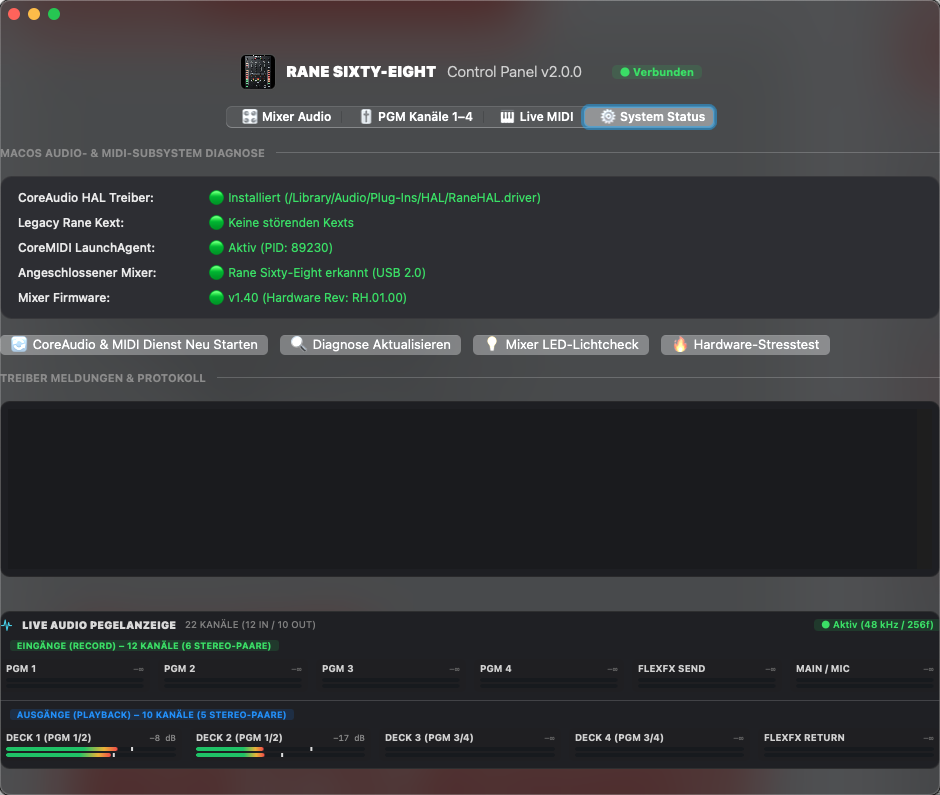
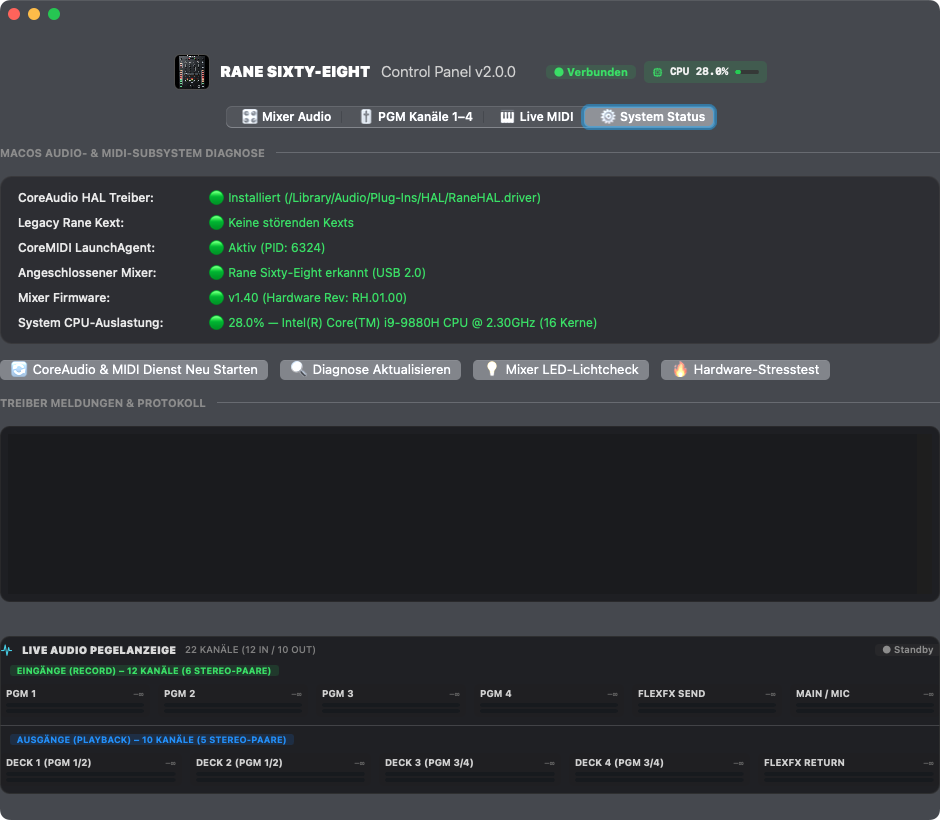
feat(ui): Add real-time CPU load monitor badge, diagnostics row and menu bar widget

diff --git a/src/manager/Views/Components/CpuBadgeView.swift b/src/manager/Views/Components/CpuBadgeView.swift
@@ -1,0 +1,136 @@
+/* SPDX-License-Identifier: MIT */
+/* CpuBadgeView.swift - Compact real-time CPU utilization badge with micro meter bar */
+
+import Cocoa
+
+final class CpuBadgeView: NSView {
+    private let iconView = NSImageView()
+    private let textLabel = NSTextField(labelWithString: "CPU  0.0%")
+    private let barTrack = NSView()
+    private let barFill = NSView()
+    private var fillWidthConstraint: NSLayoutConstraint?
+    private var trackingArea: NSTrackingArea?
+
+    var onClick: (() -> Void)?
+
+    init() {
+        super.init(frame: .zero)
+        wantsLayer = true
+        layer?.cornerRadius = 5
+        layer?.backgroundColor = NSColor.systemGreen.withAlphaComponent(0.15).cgColor
+        translatesAutoresizingMaskIntoConstraints = false
+
+        let stack = NSStackView()
+        stack.orientation = .horizontal
+        stack.alignment = .centerY
+        stack.spacing = 6
+        stack.edgeInsets = NSEdgeInsets(top: 0, left: 8, bottom: 0, right: 8)
+        stack.translatesAutoresizingMaskIntoConstraints = false
+        addSubview(stack)
+
+        if let img = NSImage(systemSymbolName: "cpu", accessibilityDescription: "CPU") {
+            iconView.image = img.withSymbolConfiguration(.init(pointSize: 11, weight: .semibold))
+        }
+        iconView.contentTintColor = NSColor.systemGreen
+        iconView.translatesAutoresizingMaskIntoConstraints = false
+        iconView.widthAnchor.constraint(equalToConstant: 12).isActive = true
+        iconView.heightAnchor.constraint(equalToConstant: 12).isActive = true
+        stack.addArrangedSubview(iconView)
+
+        textLabel.font = NSFont.monospacedSystemFont(ofSize: 10.5, weight: .bold)
+        textLabel.textColor = NSColor(white: 0.95, alpha: 1.0)
+        textLabel.alignment = .left
+        textLabel.isBezeled = false
+        textLabel.drawsBackground = false
+        textLabel.isEditable = false
+        textLabel.isSelectable = false
+        stack.addArrangedSubview(textLabel)
+
+        barTrack.wantsLayer = true
+        barTrack.layer?.cornerRadius = 2
+        barTrack.layer?.backgroundColor = NSColor(white: 0.20, alpha: 0.85).cgColor
+        barTrack.translatesAutoresizingMaskIntoConstraints = false
+        barTrack.widthAnchor.constraint(equalToConstant: 24).isActive = true
+        barTrack.heightAnchor.constraint(equalToConstant: 4).isActive = true
+
+        barFill.wantsLayer = true
+        barFill.layer?.cornerRadius = 2
+        barFill.layer?.backgroundColor = NSColor.systemGreen.cgColor
+        barFill.translatesAutoresizingMaskIntoConstraints = false
+        barTrack.addSubview(barFill)
+
+        NSLayoutConstraint.activate([
+            barFill.leadingAnchor.constraint(equalTo: barTrack.leadingAnchor),
+            barFill.topAnchor.constraint(equalTo: barTrack.topAnchor),
+            barFill.bottomAnchor.constraint(equalTo: barTrack.bottomAnchor),
+        ])
+        fillWidthConstraint = barFill.widthAnchor.constraint(equalToConstant: 2)
+        fillWidthConstraint?.isActive = true
+
+        stack.addArrangedSubview(barTrack)
+
+        NSLayoutConstraint.activate([
+            stack.leadingAnchor.constraint(equalTo: leadingAnchor),
+            stack.trailingAnchor.constraint(equalTo: trailingAnchor),
+            stack.topAnchor.constraint(equalTo: topAnchor),
+            stack.bottomAnchor.constraint(equalTo: bottomAnchor),
+            heightAnchor.constraint(equalToConstant: 22)
+        ])
+
+        updateTooltip()
+    }
+
+    required init?(coder: NSCoder) {
+        fatalError("init(coder:) has not been implemented")
+    }
+
+    override func updateTrackingAreas() {
+        super.updateTrackingAreas()
+        if let existing = trackingArea {
+            removeTrackingArea(existing)
+        }
+        let area = NSTrackingArea(rect: bounds, options: [.mouseEnteredAndExited, .activeAlways, .cursorUpdate], owner: self, userInfo: nil)
+        addTrackingArea(area)
+        self.trackingArea = area
+    }
+
+    override func cursorUpdate(with event: NSEvent) {
+        NSCursor.pointingHand.set()
+    }
+
+    override func mouseUp(with event: NSEvent) {
+        let location = convert(event.locationInWindow, from: nil)
+        if bounds.contains(location) {
+            onClick?()
+        }
+    }
+
+    func updateTooltip() {
+        toolTip = Localization.tr(
+            en: "System CPU Load. Click to switch to System Status tab.",
+            de: "System CPU-Auslastung. Klicken, um zum System Status Tab zu wechseln."
+        )
+    }
+
+    func update(percent: Double) {
+        let clamped = min(max(percent, 0.0), 100.0)
+        textLabel.stringValue = String(format: "CPU %4.1f%%", clamped)
+
+        let color: NSColor
+        if clamped < 50.0 {
+            color = NSColor.systemGreen
+        } else if clamped < 80.0 {
+            color = NSColor.systemOrange
+        } else {
+            color = NSColor.systemRed
+        }
+
+        iconView.contentTintColor = color
+        barFill.layer?.backgroundColor = color.cgColor
+        layer?.backgroundColor = color.withAlphaComponent(0.15).cgColor
+
+        let trackWidth: CGFloat = 24.0
+        let fillWidth = max(2.0, trackWidth * CGFloat(clamped / 100.0))
+        fillWidthConstraint?.constant = fillWidth
+    }
+}

diff --git a/src/manager/Service/RaneCpuService.swift b/src/manager/Service/RaneCpuService.swift
@@ -1,0 +1,97 @@
+/* SPDX-License-Identifier: MIT */
+/* RaneCpuService.swift - Lightweight Darwin Mach host CPU load monitor service */
+
+import Foundation
+import Darwin
+
+final class RaneCpuService {
+    static let shared = RaneCpuService()
+
+    private(set) var systemCpuUsage: Double = 0.0
+    private var prevCpuTicks: (UInt32, UInt32, UInt32, UInt32)?
+    private var timer: Timer?
+    private let lock = NSLock()
+
+    var onCpuUpdate: ((Double) -> Void)?
+
+    private init() {
+        start()
+    }
+
+    func start() {
+        _ = sampleCpu()
+        DispatchQueue.main.async { [weak self] in
+            guard let self = self else { return }
+            self.timer?.invalidate()
+            self.timer = Timer.scheduledTimer(withTimeInterval: 1.0, repeats: true) { [weak self] _ in
+                guard let self = self else { return }
+                let usage = self.sampleCpu()
+                self.lock.lock()
+                self.systemCpuUsage = usage
+                self.lock.unlock()
+                self.onCpuUpdate?(usage)
+            }
+        }
+    }
+
+    func stop() {
+        timer?.invalidate()
+        timer = nil
+    }
+
+    func sampleCpu() -> Double {
+        var cpuLoad = host_cpu_load_info()
+        var count = mach_msg_type_number_t(MemoryLayout<host_cpu_load_info_data_t>.size / MemoryLayout<integer_t>.size)
+        let kerr = withUnsafeMutablePointer(to: &cpuLoad) {
+            $0.withMemoryRebound(to: integer_t.self, capacity: Int(count)) {
+                host_statistics(mach_host_self(), HOST_CPU_LOAD_INFO, $0, &count)
+            }
+        }
+        guard kerr == KERN_SUCCESS else { return 0.0 }
+
+        let user = cpuLoad.cpu_ticks.0
+        let sys = cpuLoad.cpu_ticks.1
+        let idle = cpuLoad.cpu_ticks.2
+        let nice = cpuLoad.cpu_ticks.3
+
+        guard let prev = prevCpuTicks else {
+            prevCpuTicks = (user, sys, idle, nice)
+            return 0.0
+        }
+
+        let dUser = user >= prev.0 ? user - prev.0 : 0
+        let dSys = sys >= prev.1 ? sys - prev.1 : 0
+        let dIdle = idle >= prev.2 ? idle - prev.2 : 0
+        let dNice = nice >= prev.3 ? nice - prev.3 : 0
+        prevCpuTicks = (user, sys, idle, nice)
+
+        let total = dUser + dSys + dIdle + dNice
+        guard total > 0 else { return 0.0 }
+
+        let active = dUser + dSys + dNice
+        let pct = (Double(active) / Double(total)) * 100.0
+        return min(max(pct, 0.0), 100.0)
+    }
+
+    /// Returns human-readable CPU model and core count (e.g., "Apple M1 Max (10 Kerne)" or "Intel i9 (16 Kerne)")
+    func getCpuModelAndCores() -> String {
+        var size = 0
+        sysctlbyname("machdep.cpu.brand_string", nil, &size, nil, 0)
+        var model = ""
+        if size > 0 {
+            var name = [CChar](repeating: 0, count: size)
+            sysctlbyname("machdep.cpu.brand_string", &name, &size, nil, 0)
+            model = String(cString: name).trimmingCharacters(in: .whitespacesAndNewlines)
+        }
+        if model.isEmpty {
+            #if arch(arm64)
+            model = "Apple Silicon"
+            #else
+            model = "Intel Core"
+            #endif
+        }
+        let cores = ProcessInfo.processInfo.activeProcessorCount
+        let coresWord = Localization.tr(en: "Cores", de: "Kerne")
+        return "\(model) (\(cores) \(coresWord))"
+    }
+}

diff --git a/src/manager/Controller/MainWindowController.swift b/src/manager/Controller/MainWindowController.swift
@@ -67,7 +67,11 @@ class MainWindowController: NSWindowController, NSWindowDelegate {
     var agentStatusLabel: NSTextField!
     var deviceStatusLabel: NSTextField!
     var firmwareStatusLabel: NSTextField!
+    var cpuStatusLabel: NSTextField!
     var sysLogTextView: NSTextView!
+
+    // Header CPU Badge
+    var headerCpuBadge: CpuBadgeView!
 
     // LED Light Check
     var ledTestButton: NSButton?
@@ -115,6 +119,13 @@ class MainWindowController: NSWindowController, NSWindowDelegate {
         setupModernUI()
         setupMidiListener()
         refreshStatus()
+
+        RaneCpuService.shared.onCpuUpdate = { [weak self] usage in
+            DispatchQueue.main.async {
+                self?.headerCpuBadge?.update(percent: usage)
+                self?.updateDiagnosticsCpu(usage: usage)
+            }
+        }
 
         timer = Timer.scheduledTimer(withTimeInterval: 2.5, repeats: true) { [weak self] _ in
             self?.refreshStatus()
@@ -229,6 +240,9 @@ class MainWindowController: NSWindowController, NSWindowDelegate {
             headerStatusBadge.layer?.backgroundColor = NSColor.systemRed.withAlphaComponent(0.15).cgColor
         }
 
+        headerCpuBadge?.updateTooltip()
+        headerCpuBadge?.update(percent: RaneCpuService.shared.systemCpuUsage)
+
         let ledTitle = isLedTestRunning ? Localization.tr(en: "⏹ Stop LED Check", de: "⏹ LED-Test Beenden")
                                         : Localization.tr(en: "💡 Mixer LED Light Test", de: "💡 Mixer LED-Lichtcheck")
         ledTestButton?.title = ledTitle
@@ -328,6 +342,15 @@ class MainWindowController: NSWindowController, NSWindowDelegate {
 
         headerStatusBadge = createBadge(text: Localization.tr(en: "● Offline", de: "● Offline"), isConnected: false)
         headerStack.addArrangedSubview(headerStatusBadge)
+
+        headerCpuBadge = CpuBadgeView()
+        headerCpuBadge.onClick = { [weak self] in
+            guard let self = self else { return }
+            self.segmentedNav?.selectedSegment = 3
+            self.onTabChanged()
+        }
+        headerCpuBadge.update(percent: RaneCpuService.shared.systemCpuUsage)
+        headerStack.addArrangedSubview(headerCpuBadge)
 
         mainStack.addArrangedSubview(headerStack)
         headerStack.centerXAnchor.constraint(equalTo: mainStack.centerXAnchor).isActive = true

diff --git a/src/manager/App/AppDelegate.swift b/src/manager/App/AppDelegate.swift
@@ -90,6 +90,23 @@ class AppDelegate: NSObject, NSApplicationDelegate, NSMenuDelegate {
         statItem.isEnabled = false
         menu.addItem(statItem)
 
+        // 2b. System CPU Load
+        let cpuUsage = RaneCpuService.shared.systemCpuUsage
+        let cpuText = Localization.tr(
+            en: "⚡ System CPU: \(String(format: "%.1f%%", cpuUsage))",
+            de: "⚡ System CPU: \(String(format: "%.1f%%", cpuUsage))"
+        )
+        let cpuItem = NSMenuItem(title: cpuText, action: nil, keyEquivalent: "")
+        cpuItem.attributedTitle = NSAttributedString(
+            string: cpuText,
+            attributes: [
+                .font: NSFont.systemFont(ofSize: 11, weight: .medium),
+                .foregroundColor: cpuUsage > 80.0 ? NSColor.systemRed : (cpuUsage > 50.0 ? NSColor.systemOrange : NSColor.systemGreen)
+            ]
+        )
+        cpuItem.isEnabled = false
+        menu.addItem(cpuItem)
+
         menu.addItem(NSMenuItem.separator())
 
         // 3. Current Latency / Buffer Submenu

diff --git a/src/manager/Controller/MainWindowController+Diagnostics.swift b/src/manager/Controller/MainWindowController+Diagnostics.swift
@@ -76,7 +76,24 @@ extension MainWindowController {
                     self.firmwareStatusLabel?.stringValue = "⚪ Nicht ermittelt (Mixer verbinden)"
                     self.firmwareStatusLabel?.textColor = NSColor.secondaryLabelColor
                 }
+
+                self.updateDiagnosticsCpu(usage: RaneCpuService.shared.systemCpuUsage)
             }
+        }
+    }
+
+    func updateDiagnosticsCpu(usage: Double) {
+        guard let label = self.cpuStatusLabel else { return }
+        let cpuModel = RaneCpuService.shared.getCpuModelAndCores()
+        let dot = (usage > 80.0) ? "🔴" : ((usage > 50.0) ? "🟡" : "🟢")
+        let cpuText = "\(dot) \(String(format: "%.1f%%", usage)) — \(cpuModel)"
+        label.stringValue = cpuText
+        if usage > 80.0 {
+            label.textColor = NSColor.systemRed
+        } else if usage > 50.0 {
+            label.textColor = NSColor.systemOrange
+        } else {
+            label.textColor = NSColor.systemGreen
         }
     }
 

diff --git a/src/manager/Views/Tabs/SystemStatusTab.swift b/src/manager/Views/Tabs/SystemStatusTab.swift
@@ -25,6 +25,7 @@ extension MainWindowController {
         agentStatusLabel = createStatusRow(title: Localization.tr(en: "CoreMIDI LaunchAgent:", de: "CoreMIDI LaunchAgent:"), stack: statusStack)
         deviceStatusLabel = createStatusRow(title: Localization.tr(en: "Connected Mixer:", de: "Angeschlossener Mixer:"), stack: statusStack)
         firmwareStatusLabel = createStatusRow(title: Localization.tr(en: "Mixer Firmware:", de: "Mixer Firmware:"), stack: statusStack)
+        cpuStatusLabel = createStatusRow(title: Localization.tr(en: "System CPU Load:", de: "System CPU-Auslastung:"), stack: statusStack)
 
         let statusCard = statusStack.wrapInCard(padding: NSEdgeInsets(top: 14, left: 18, bottom: 14, right: 18))
         page.addArrangedSubview(statusCard)

diff --git a/README.md b/README.md
@@ -69,6 +69,10 @@ If macOS shows an alert stating *"Developer cannot be verified"*:
   - **Feld 1:** Physischer Rückseiten-Schalter (`LINE (CD)` vs. `PHONO` vs. `S/PDIF` – CC 112–115).
   - **Feld 2:** Exakte Drehschalter-Quellenwahl (`PH/CD 1–4`, `USB 1–4`, `AUX 1–4` – CC 116–119).
   - **Feld 3:** Crossfader-Zuweisung (`CROSSFADER A` vs. `POST` vs. `CROSSFADER B` – CC 120–123) im einheitlichen zentrierten Hardware-Badge-Stil.
+- **Echtzeit CPU-Auslastungsanzeige:**
+  - Kompaktes, farbcodiertes Hardware-Badge mit Micro-Meter-Balken direkt im Header (auf allen Tabs sichtbar, 1-Klick-Sprung zur Systemdiagnose).
+  - Detaillierte Systemauslastung mit CPU-Modell- und Kern-Erkennung in Tab 4 (*System Status*).
+  - Live CPU-Anzeige im macOS Menüleisten-Widget.
 - **Anti-Stutter MIDI-Quittierung & Slider-Drosselung:** Schützt den USB-Bus vor Überlastung beim schnellen Bewegen von Reglern (Phones Tone, LCD-Kontrast).
 - **macOS Menüleisten-Widget (Status Item):** Schneller Zugriff auf Puffergröße/Latenz, Verbindungsstatus und Audio MIDI Setup direkt aus der oberen macOS-Menüleiste.
 - **Zweisprachig (Deutsch & Englisch):** Vollständige Lokalisierung aller Tabs, Tooltips und Systemmenüs inklusive Versionsanzeige `v2.0.0`.
